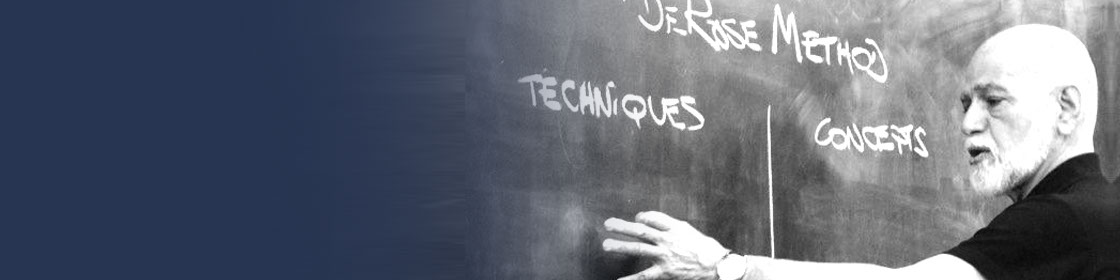
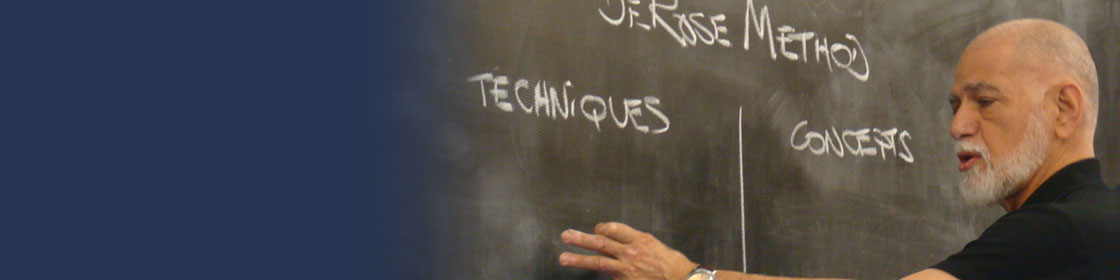
individual consultants header image

diff --git a/app/assets/stylesheets/individual_consultory.css b/app/assets/stylesheets/individual_consultory.css
@@ -13,7 +13,7 @@
 }
 
 .individual-with-consultory-background-header {
-  background-image: url('consultants_header.jpg');
+  background-image: url('individual_consultants_header.jpg');
   background-position: 0% 45%;
 }
 

diff --git a/app/assets/stylesheets/derose_method.css b/app/assets/stylesheets/derose_method.css
@@ -1,6 +1,6 @@
 .derose-method-header {
   background-image: url('derose_method_header.jpg');
-  background-position: 0% 45%;
+  background-position: 0% 0%;
 }
 
 .page-footer-image-container.right > img {
